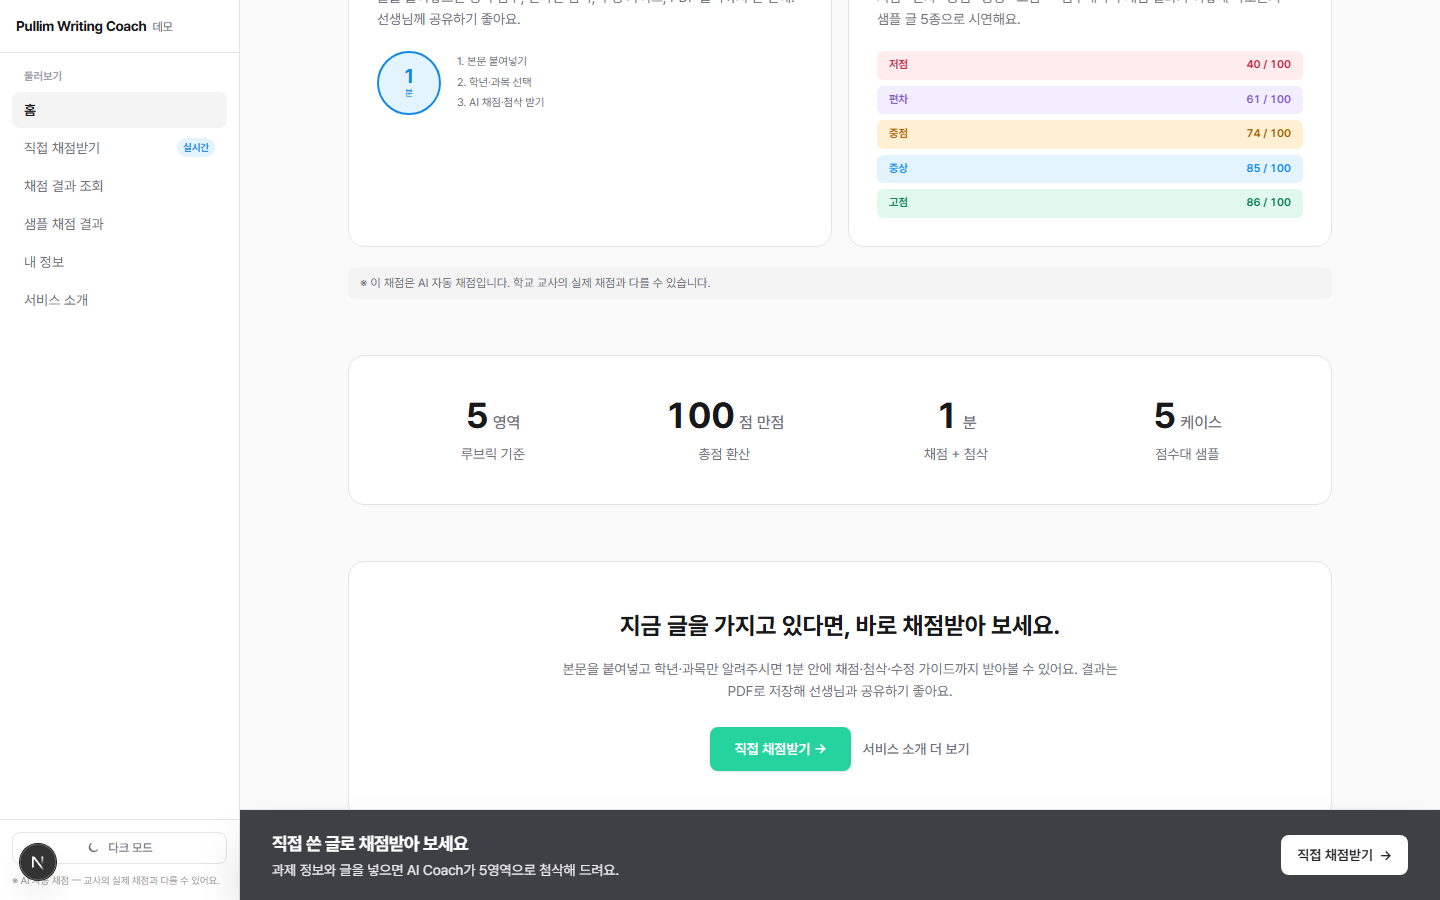
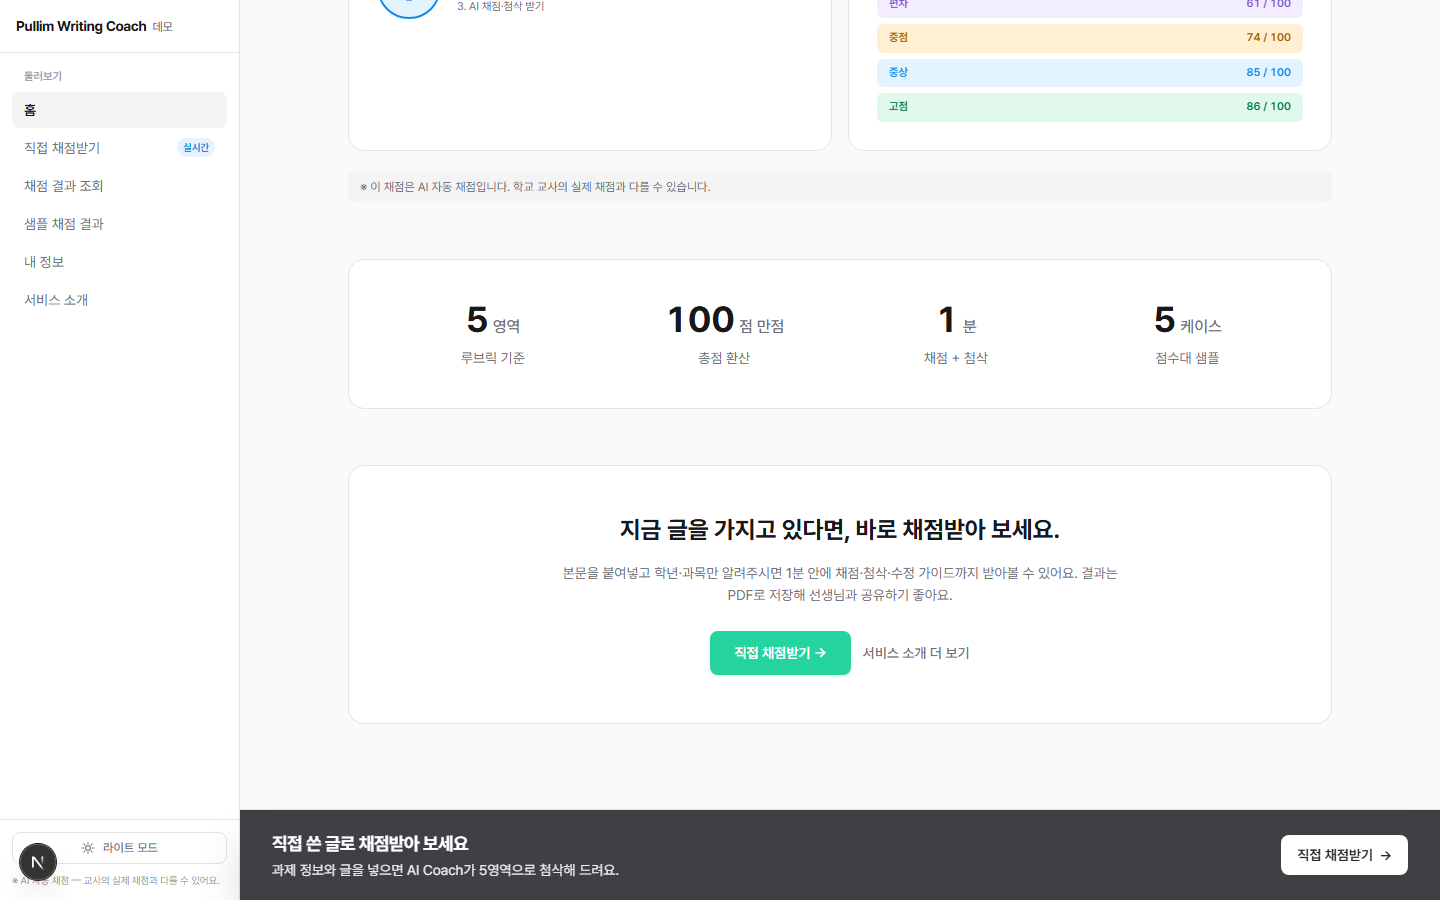
fix(fe): CtaBand 호출 위치를 페이지 맨 끝으로 이동 (Codex PR #66)
Codex 정당한 지적 — CtaBand가 hero 직후(line 79)에서 호출돼 spacer가 본문
중간에 들어감. 결과: 헤더 아래 의도치 않은 빈 공간 + 페이지 마지막에는
여백 없어 fixed bar가 closing CTA section 덮음.

Fix: page.tsx에서 CtaBand 호출 위치를 페이지 맨 끝(closing section 다음)으로
이동. spacer가 자연스럽게 페이지 끝에 위치 → fixed bar 가림 방지 + hero
직후 빈 공간 제거.

diff --git a/app/page.tsx b/app/page.tsx
@@ -74,9 +74,8 @@ export default function Home() {
         </div>
       </header>
 
-      {/* 개인화 배너 + 닫는 CTA — 기존 위치 유지 */}
+      {/* 개인화 배너 — hero 직후. CtaBand는 floating fixed라 페이지 맨 끝에서 호출. */}
       <HomeWelcomeBanner />
-      <CtaBand />
 
       {/* Bento 4-up — 기능 시각화. qanda 'bento card' 톤. */}
       <section className="mt-14">
@@ -157,6 +156,10 @@ export default function Home() {
           </div>
         </div>
       </section>
+
+      {/* Floating CTA — 페이지 마지막에 호출해야 spacer가 페이지 끝에 들어가 fixed bar가
+          마지막 콘텐츠를 가리지 않음(Codex PR #66 정정). */}
+      <CtaBand />
     </main>
   );
 }